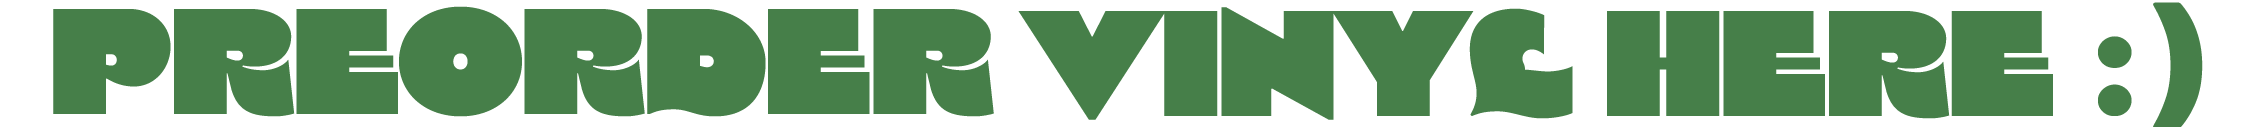
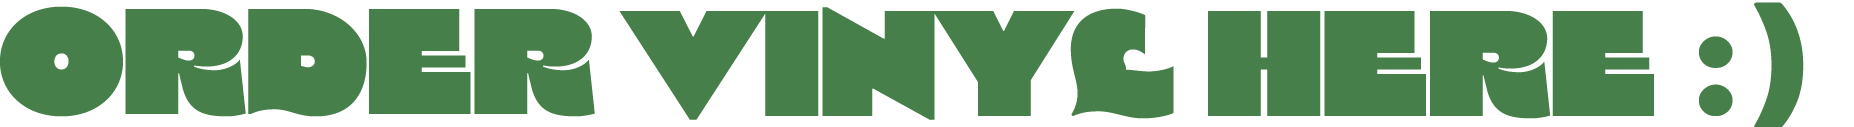
change order text and url

diff --git a/src/containers/Home/components/FooterBanner/index.js b/src/containers/Home/components/FooterBanner/index.js
@@ -55,7 +55,7 @@ const FooterBanner = () => {
     {!isMobile ? (
     <div>
       <ScrollingText onClick={() => {
-    window.open('https://www.momes.work/dorian-store/p/daphne-major-vinyl-pre-order', '_blank');
+    window.open('https://16b780-2.myshopify.com/', '_blank');
   }}>
       <img src={`${process.env.PUBLIC_URL}/daphne-assets/preorder.png`} style={{height:'100%',backgroundRepeat: 'repeat-x', margin: '0px 50px'}}/>
       <img src={`${process.env.PUBLIC_URL}/daphne-assets/preorder.png`} style={{height:'100%',backgroundRepeat: 'repeat-x', margin: '0px 50px'}}/>
@@ -71,7 +71,7 @@ const FooterBanner = () => {
     </div>) : 
     (<div>
        <NoScrollTextMobile onClick={() => {
-    window.open('https://www.momes.work/dorian-store/p/daphne-major-vinyl-pre-order', '_blank');
+    window.open('https://16b780-2.myshopify.com/', '_blank');
   }}>
       <img src={`${process.env.PUBLIC_URL}/daphne-assets/preorder-mobile.png`} style={{width:'100%'}}/>
   

diff --git a/README.md b/README.md
@@ -29,43 +29,3 @@ The build is minified and the filenames include the hashes.\
 Your app is ready to be deployed!
 
 See the section about [deployment](https://facebook.github.io/create-react-app/docs/deployment) for more information.
-
-### `npm run eject`
-
-**Note: this is a one-way operation. Once you `eject`, you can't go back!**
-
-If you aren't satisfied with the build tool and configuration choices, you can `eject` at any time. This command will remove the single build dependency from your project.
-
-Instead, it will copy all the configuration files and the transitive dependencies (webpack, Babel, ESLint, etc) right into your project so you have full control over them. All of the commands except `eject` will still work, but they will point to the copied scripts so you can tweak them. At this point you're on your own.
-
-You don't have to ever use `eject`. The curated feature set is suitable for small and middle deployments, and you shouldn't feel obligated to use this feature. However we understand that this tool wouldn't be useful if you couldn't customize it when you are ready for it.
-
-## Learn More
-
-You can learn more in the [Create React App documentation](https://facebook.github.io/create-react-app/docs/getting-started).
-
-To learn React, check out the [React documentation](https://reactjs.org/).
-
-### Code Splitting
-
-This section has moved here: [https://facebook.github.io/create-react-app/docs/code-splitting](https://facebook.github.io/create-react-app/docs/code-splitting)
-
-### Analyzing the Bundle Size
-
-This section has moved here: [https://facebook.github.io/create-react-app/docs/analyzing-the-bundle-size](https://facebook.github.io/create-react-app/docs/analyzing-the-bundle-size)
-
-### Making a Progressive Web App
-
-This section has moved here: [https://facebook.github.io/create-react-app/docs/making-a-progressive-web-app](https://facebook.github.io/create-react-app/docs/making-a-progressive-web-app)
-
-### Advanced Configuration
-
-This section has moved here: [https://facebook.github.io/create-react-app/docs/advanced-configuration](https://facebook.github.io/create-react-app/docs/advanced-configuration)
-
-### Deployment
-
-This section has moved here: [https://facebook.github.io/create-react-app/docs/deployment](https://facebook.github.io/create-react-app/docs/deployment)
-
-### `npm run build` fails to minify
-
-This section has moved here: [https://facebook.github.io/create-react-app/docs/troubleshooting#npm-run-build-fails-to-minify](https://facebook.github.io/create-react-app/docs/troubleshooting#npm-run-build-fails-to-minify)
